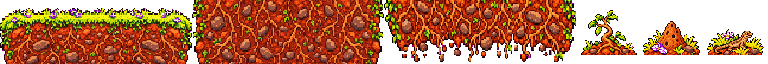
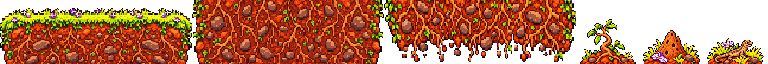
Arenas: islands taper like inverted triangles, decor sits on the floor, Caatinga ledge rests on ground, no birds in Pantanal background

Changed region(s): [[0.75, 0.1562, 1.0, 1.0]]

diff --git a/game/tools/importar_arena.py b/game/tools/importar_arena.py
@@ -102,6 +102,27 @@ def fill_cell(tile, k):
     return out
 
 
+def sit_on_floor(tile):
+    """Enfeite: encosta a parte de baixo do desenho na última linha do quadro
+    (o jogo apoia essa linha no chão; senão o enfeite fica flutuando)."""
+    box = tile.getbbox()
+    if not box:
+        return tile
+    out = Image.new("RGBA", (NATIVE, NATIVE), (0, 0, 0, 0))
+    part = tile.crop(box)
+    out.paste(part, ((NATIVE - part.width) // 2, NATIVE - part.height))
+    return out
+
+
+def outline_color(tile):
+    """Cor mais escura do bloco do canto (o contorno), em hexadecimal."""
+    px = [p for p in tile.getdata() if p[3] > 0]
+    if not px:
+        return "#2a1a10"
+    r, g, b, _ = min(px, key=lambda p: p[0] + p[1] + p[2])
+    return "#%02x%02x%02x" % (r, g, b)
+
+
 def surface_row(tile):
     """Primeira linha com pelo menos 40% de pixels desenhados (o chão do bloco)."""
     px = tile.load()
@@ -144,8 +165,13 @@ def main():
                 k = half * 6 + i
                 if k < 9:
                     t = fill_cell(t, k)
+                else:
+                    t = sit_on_floor(t)
                 blocks.paste(t, (k * NATIVE, 0))
         blocks.save(os.path.join(dst, "blocos.png"))
+        # Miolo do terreno à parte: o jogo repete ele dentro da ilha afinando para baixo.
+        blocks.crop((4 * NATIVE, 0, 5 * NATIVE, NATIVE)).save(os.path.join(dst, "miolo.png"))
+        meta["contorno"] = outline_color(blocks.crop((0, 0, NATIVE, NATIVE)))
         meta["superficie_blocos"] = surface_row(blocks.crop((NATIVE, 0, 2 * NATIVE, NATIVE)))
         meta["versao"] = 2
     with open(os.path.join(dst, "arena.json"), "w", encoding="utf-8") as f:
